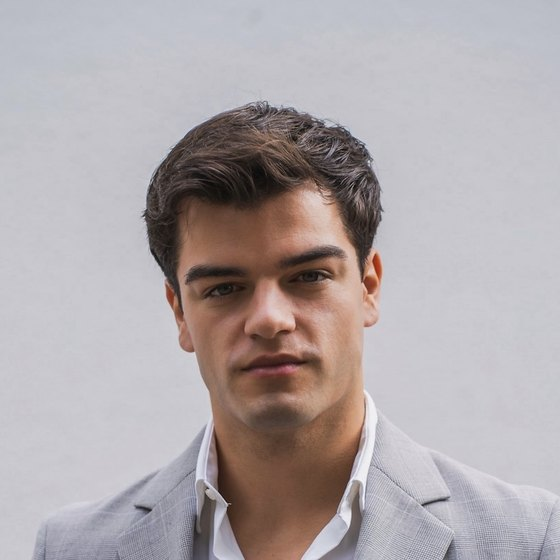
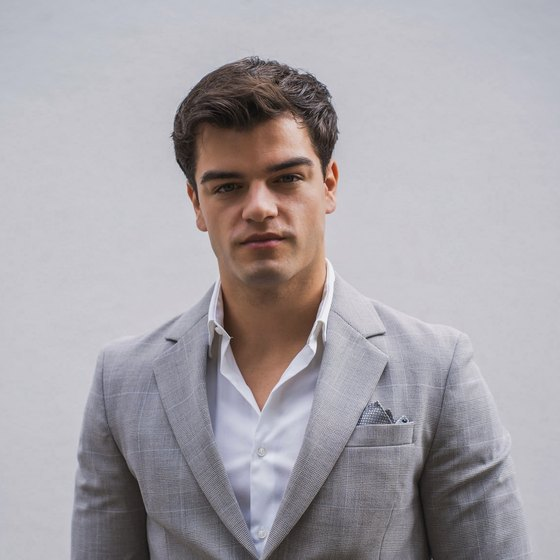
Make the scroll chapters show the real screens
The three mocks were invented. They now use the plugin's own vocabulary,
taken from the source rather than imagined:

- Connect is the actual Add New Feed form (Feed Name, Feed URL, Network
  with auto-detect) followed by the two lines the plugin really prints,
  "Excellent field mapping detected" and "Importing products in the
  background", with an import counter
- Pick is the actual picker: Search Products, the Search button, the
  Filters / Best match / On sale / In stock chips, Product Search
  Results, tiles with Add to Selection and Remove from Selection, and
  the View Selected and Load More Results footer
- Publish gains the two lines the real front-end card carries under the
  price and the mock left out: the shipping note and the merchant name

The caption now says the real screens hold more than fits in the demo,
so the simplification is stated rather than implied.

Portrait recropped wider — head, shoulders and jacket instead of a head
crop.

diff --git a/v2/index.html b/v2/index.html
@@ -333,6 +333,21 @@ img.pp{display:block;width:auto;height:auto;filter:drop-shadow(0 10px 16px rgba(
 .feedstack .fs-head{font-size:.72rem;letter-spacing:.14em;text-transform:uppercase;color:var(--ink-mute);font-weight:600;margin-bottom:4px}
 .feedstack .fs-url{display:flex;align-items:center;border:1.5px solid var(--accent);border-radius:11px;padding:13px 16px;background:var(--surface);font-size:.85rem;color:var(--ink-soft);box-shadow:0 0 0 5px rgba(88,73,214,.08);margin-bottom:8px}
 .feedstack .fs-url .caret{width:1.5px;height:16px;background:var(--accent);margin-left:2px;animation:blink 1s steps(1) infinite}
+/* Chapter one mirrors the real Add New Feed screen: the same three
+   fields, the same auto-detect, the same mapping-quality line the
+   plugin prints once it has read the file. */
+.fs-label{font-size:.68rem;font-weight:600;letter-spacing:.06em;text-transform:uppercase;color:var(--ink-mute);margin-bottom:-4px}
+.fs-field{display:flex;align-items:center;justify-content:space-between;border:1px solid var(--line);border-radius:11px;padding:12px 15px;background:var(--surface);font-size:.85rem;color:var(--ink)}
+.fs-pill{font-size:.68rem;font-weight:700;letter-spacing:.04em;background:var(--accent-soft);color:var(--accent);border:1px solid rgba(88,73,214,.2);border-radius:999px;padding:3px 10px}
+.fs-status{display:flex;align-items:center;gap:8px;font-size:.8rem;font-weight:600;color:var(--green)}
+.fs-status i{width:15px;height:15px;border-radius:50%;background:var(--green);flex-shrink:0;position:relative}
+.fs-status i::after{content:'';position:absolute;left:4.5px;top:2.5px;width:4px;height:7px;border:solid #fff;border-width:0 1.7px 1.7px 0;transform:rotate(45deg)}
+.fs-status.muted{color:var(--ink-soft);font-weight:500}
+.fs-status.muted i{background:var(--accent);animation:pulse 1.4s infinite}
+.fs-status.muted i::after{display:none}
+.fs-bar{height:6px;border-radius:999px;background:var(--line-soft);overflow:hidden}
+.fs-bar span{display:block;height:100%;width:62%;background:var(--accent);border-radius:999px}
+.fs-count{font-size:.76rem;color:var(--ink-mute);text-align:right}
 .fs-row{display:flex;align-items:center;gap:13px;padding:12px 15px;border:1px solid var(--line);border-radius:12px;background:var(--surface);box-shadow:var(--shadow-card)}
 .fs-row .sw{width:44px;height:44px;border-radius:9px;flex-shrink:0;background:linear-gradient(165deg,#F6F3EC,#EFEAE0);display:flex;align-items:center;justify-content:center}
 .fs-row .sw svg{width:32px;height:32px}
@@ -357,6 +372,28 @@ img.pp{display:block;width:auto;height:auto;filter:drop-shadow(0 10px 16px rgba(
 .edcard .ed-item .rn{font-size:.8rem;font-weight:600;color:var(--ink);flex:1}
 .edcard .ed-item .pr{font-size:.78rem;font-weight:700;margin-left:auto}
 .edcard .ed-insert{display:inline-block;margin-top:16px;background:var(--accent);color:#fff;font-size:.82rem;font-weight:600;padding:11px 22px;border-radius:9px}
+/* Chapter two uses the picker's own vocabulary: Search Products,
+   Filters, Best match, Product Search Results, Add to Selection,
+   View Selected, Load More Results. */
+.edcard .ed-label{font-size:.68rem;font-weight:600;letter-spacing:.06em;text-transform:uppercase;color:var(--ink-mute);margin-bottom:7px}
+.edcard .ed-searchrow{display:flex;gap:8px;align-items:stretch}
+.edcard .ed-searchrow .ed-search{flex:1}
+.edcard .ed-btn{display:flex;align-items:center;background:var(--accent);color:#fff;font-size:.8rem;font-weight:600;padding:0 16px;border-radius:10px;white-space:nowrap}
+.edcard .ed-toolbar{display:flex;flex-wrap:wrap;gap:6px;margin-top:10px}
+.edcard .ed-chip{font-size:.7rem;font-weight:600;color:var(--ink-soft);border:1px solid var(--line);border-radius:999px;padding:4px 11px;background:var(--surface)}
+.edcard .ed-chip.on{color:var(--accent);border-color:rgba(88,73,214,.35);background:var(--accent-soft)}
+.edcard .ed-reshead{font-size:.68rem;font-weight:600;letter-spacing:.06em;text-transform:uppercase;color:var(--ink-mute);margin:16px 0 9px}
+.edcard .ed-grid{display:grid;grid-template-columns:1fr 1fr;gap:9px}
+.edcard .ed-tile{border:1px solid var(--line-soft);border-radius:10px;background:#FDFCFA;padding:9px;display:flex;flex-direction:column;gap:6px}
+.edcard .ed-tile.pick{border-color:var(--accent);box-shadow:0 0 0 3px rgba(88,73,214,.1)}
+.edcard .ed-tile .sw{width:100%;height:62px;border-radius:8px;background:linear-gradient(165deg,#F6F3EC,#EFEAE0);display:flex;align-items:center;justify-content:center}
+.edcard .ed-tile .rn{font-size:.72rem;font-weight:600;color:var(--ink);line-height:1.25;overflow:hidden;display:-webkit-box;-webkit-line-clamp:2;-webkit-box-orient:vertical}
+.edcard .ed-tile .pr{font-size:.74rem;font-weight:700;color:var(--ink)}
+.edcard .ed-add{font-size:.66rem;font-weight:600;text-align:center;border-radius:7px;padding:5px 0;border:1px solid var(--line);color:var(--ink-soft);background:var(--surface)}
+.edcard .ed-tile.pick .ed-add{background:var(--accent);border-color:var(--accent);color:#fff}
+.edcard .ed-foot{display:flex;align-items:center;justify-content:space-between;margin-top:14px;font-size:.74rem}
+.edcard .ed-foot .ed-sel{font-weight:600;color:var(--accent)}
+.edcard .ed-foot .ed-more{color:var(--ink-mute)}
 
 /* Chapter 2 — published, live */
 .pubgrid{display:grid;grid-template-columns:repeat(3,1fr);gap:16px;width:min(560px,94%)}
@@ -371,6 +408,11 @@ img.pp{display:block;width:auto;height:auto;filter:drop-shadow(0 10px 16px rgba(
 .pub-card .pc-pr{font-size:.78rem;font-weight:700}
 .pub-card .pc-pr.sale{color:var(--sale)}
 .pub-card .pc-pr s{color:var(--ink-mute);font-weight:500;font-size:.64rem;margin-right:5px}
+/* The real frontend card carries a shipping note and the merchant name
+   under the price; leaving them out made the mock look tidier than the
+   thing it is selling. */
+.pub-card .pc-ship{font-size:.5rem;letter-spacing:.04em;text-transform:uppercase;color:var(--ink-mute);margin-top:6px;white-space:nowrap;overflow:hidden;text-overflow:ellipsis}
+.pub-card .pc-shop{font-size:.5rem;letter-spacing:.08em;text-transform:uppercase;color:var(--ink-soft);font-weight:700;margin-top:2px}
 .pub-card.featured{transform:scale(1.06);box-shadow:0 30px 70px -18px rgba(0,0,0,.7),0 0 0 1px rgba(185,174,244,.3)}
 .pub-live{display:inline-flex;align-items:center;gap:8px;margin-top:22px;font-size:.8rem;color:#B9AEF4;font-weight:600}
 .pub-live i{width:8px;height:8px;border-radius:50%;background:var(--green);animation:pulse 1.8s infinite}
@@ -742,16 +784,21 @@ footer .container{display:flex;justify-content:space-between;gap:40px;flex-wrap:
           <div class="cine-copy">
             <span class="cine-num">01 — Connect</span>
             <h2 class="cine-title">Point it at your <em>affiliate feed.</em></h2>
-            <p class="cine-sub">Paste the feed URL from any network. MyFeeds imports thousands of products and maps every field on its own.</p>
+            <p class="cine-sub">Name it, paste the feed URL, done. MyFeeds detects the network, works out which column is which, and imports in the background while you carry on.</p>
           </div>
           <div class="cine-viz">
             <div class="feedstack">
-              <div class="fs-head">Import a feed</div>
+              <div class="fs-head">Add New Feed</div>
+              <div class="fs-label">Feed Name</div>
+              <div class="fs-field">Menswear autumn</div>
+              <div class="fs-label">Feed URL</div>
               <div class="fs-url">https://your-network.com/datafeed/…<span class="caret"></span></div>
-              <div class="fs-row"><div class="sw"><img class="pp" src="/assets/products/hoodie-heather-grey.webp" alt="" width="527" height="720" loading="lazy"></div><span class="rn">Cotton Hoodie Heather Grey</span><span class="pr">$89.00</span></div>
-              <div class="fs-row"><div class="sw"><img class="pp" src="/assets/products/tote-canvas-natural.webp" alt="" width="425" height="720" loading="lazy"></div><span class="rn">Canvas Tote Natural</span><span class="pr">$48.00</span></div>
-              <div class="fs-row"><div class="sw"><img class="pp" src="/assets/products/sneaker-white-lowtop.webp" alt="" width="720" height="344" loading="lazy"></div><span class="rn">Low-Top Sneaker White</span><span class="pr">$79.90</span></div>
-              <div class="fs-row"><div class="sw"><img class="pp" src="/assets/products/beanie-knit-navy.webp" alt="" width="720" height="657" loading="lazy"></div><span class="rn">Knit Beanie Rib Navy</span><span class="pr">$29.00</span></div>
+              <div class="fs-label">Network</div>
+              <div class="fs-field">Auto-detect <span class="fs-pill">AWIN</span></div>
+              <div class="fs-status"><i></i>Excellent field mapping detected</div>
+              <div class="fs-status muted"><i></i>Importing products in the background…</div>
+              <div class="fs-bar"><span></span></div>
+              <div class="fs-count">12,480 of 20,116 products</div>
             </div>
           </div>
         </div>
@@ -763,18 +810,39 @@ footer .container{display:flex;justify-content:space-between;gap:40px;flex-wrap:
           <div class="cine-copy">
             <span class="cine-num">02 — Pick</span>
             <h2 class="cine-title">Drop products in <em>without leaving the editor.</em></h2>
-            <p class="cine-sub">Search your catalogue right inside the post. Click, and the card is in. No new tab, no copy, no paste, no missed link.</p>
+            <p class="cine-sub">Search your whole catalogue inside the post editor, narrow it by brand, colour or sale, and add what you want to the selection. No new tab, no copy, no paste, no missed link.</p>
           </div>
           <div class="cine-viz">
             <div class="edcard">
               <div class="ed-bar"><div class="ed-dots"><span></span><span></span><span></span></div><div class="ed-url">yourblog.com/wp-admin</div></div>
               <div class="ed-body">
-                <div class="ed-search"><span class="hl">sn</span>eaker<span class="caret"></span></div>
-                <div class="ed-res">
-                  <div class="ed-item pick"><div class="sw"><img class="pp" src="/assets/products/sneaker-white-lowtop.webp" alt="" width="720" height="344" loading="lazy"></div><span class="rn">Low-Top Sneaker White</span><span class="pr">$79.90</span></div>
-                  <div class="ed-item" style="opacity:.6"><div class="sw"><img class="pp" src="/assets/products/sneaker-black-hightop.webp" alt="" width="720" height="422" loading="lazy"></div><span class="rn">High-Top Sneaker Black</span><span class="pr">$64.00</span></div>
+                <div class="ed-label">Search Products</div>
+                <div class="ed-searchrow">
+                  <div class="ed-search"><span class="hl">sn</span>eaker<span class="caret"></span></div>
+                  <span class="ed-btn">Search</span>
                 </div>
-                <span class="ed-insert">Insert card →</span>
+                <div class="ed-toolbar">
+                  <span class="ed-chip">Filters</span>
+                  <span class="ed-chip">Best match</span>
+                  <span class="ed-chip on">On sale</span>
+                  <span class="ed-chip">In stock</span>
+                </div>
+                <div class="ed-reshead">Product Search Results</div>
+                <div class="ed-grid">
+                  <div class="ed-tile pick">
+                    <div class="sw"><img class="pp" src="/assets/products/sneaker-white-lowtop.webp" alt="" width="720" height="344" loading="lazy"></div>
+                    <span class="rn">Low-Top Sneaker White</span>
+                    <span class="pr">$79.90</span>
+                    <span class="ed-add">Remove from Selection</span>
+                  </div>
+                  <div class="ed-tile">
+                    <div class="sw"><img class="pp" src="/assets/products/sneaker-black-hightop.webp" alt="" width="720" height="422" loading="lazy"></div>
+                    <span class="rn">High-Top Sneaker Black</span>
+                    <span class="pr">$64.00</span>
+                    <span class="ed-add">Add to Selection</span>
+                  </div>
+                </div>
+                <div class="ed-foot"><span class="ed-sel">View Selected (3)</span><span class="ed-more">Load More Results</span></div>
               </div>
             </div>
           </div>
@@ -793,15 +861,15 @@ footer .container{display:flex;justify-content:space-between;gap:40px;flex-wrap:
           <div class="cine-viz">
             <div class="pub-glow" aria-hidden="true"></div>
             <div class="pubgrid">
-              <div class="pub-card"><div class="pc-img"><img class="pp" src="/assets/products/hoodie-heather-grey.webp" alt="" width="527" height="720" loading="lazy"></div><div class="pc-b"><div class="pc-brand">Studio Form</div><div class="pc-name">Cotton Hoodie</div><div class="pc-pr">$89.00</div></div></div>
-              <div class="pub-card featured"><div class="pc-img"><span class="pc-badge">-25%</span><img class="pp" src="/assets/products/sneaker-white-lowtop.webp" alt="" width="720" height="344" loading="lazy"></div><div class="pc-b"><div class="pc-brand">Nordic Trail</div><div class="pc-name">Low-Top Sneaker</div><div class="pc-pr sale"><s>$79.90</s><span id="cine-price">$59.90</span><span class="badge-updated" id="cine-badge">updated</span></div></div></div>
-              <div class="pub-card"><div class="pc-img"><img class="pp" src="/assets/products/tote-canvas-natural.webp" alt="" width="425" height="720" loading="lazy"></div><div class="pc-b"><div class="pc-brand">Atelier</div><div class="pc-name">Canvas Tote</div><div class="pc-pr">$48.00</div></div></div>
+              <div class="pub-card"><div class="pc-img"><img class="pp" src="/assets/products/hoodie-heather-grey.webp" alt="" width="527" height="720" loading="lazy"></div><div class="pc-b"><div class="pc-brand">Studio Form</div><div class="pc-name">Cotton Hoodie Heather Grey</div><div class="pc-pr">$89.00</div><div class="pc-ship">Shipping costs may apply</div><div class="pc-shop">Outlet24</div></div></div>
+              <div class="pub-card featured"><div class="pc-img"><span class="pc-badge">-25%</span><img class="pp" src="/assets/products/sneaker-white-lowtop.webp" alt="" width="720" height="344" loading="lazy"></div><div class="pc-b"><div class="pc-brand">Nordic Trail</div><div class="pc-name">Low-Top Sneaker White</div><div class="pc-pr sale"><s>$79.90</s><span id="cine-price">$59.90</span><span class="badge-updated" id="cine-badge">updated</span></div><div class="pc-ship">Free shipping</div><div class="pc-shop">Stockroom</div></div></div>
+              <div class="pub-card"><div class="pc-img"><img class="pp" src="/assets/products/tote-canvas-natural.webp" alt="" width="425" height="720" loading="lazy"></div><div class="pc-b"><div class="pc-brand">Atelier</div><div class="pc-name">Canvas Tote Natural</div><div class="pc-pr">$48.00</div><div class="pc-ship">Shipping costs may apply</div><div class="pc-shop">Stockroom</div></div></div>
             </div>
           </div>
         </div>
       </div>
 
-      <div class="cine-note">Illustrative demo. Your real cards use your products and your design.</div>
+      <div class="cine-note">Illustrative demo — the real screens hold far more than fits here. Your cards carry your products and your design.</div>
     </div>
   </div>
 </section>
